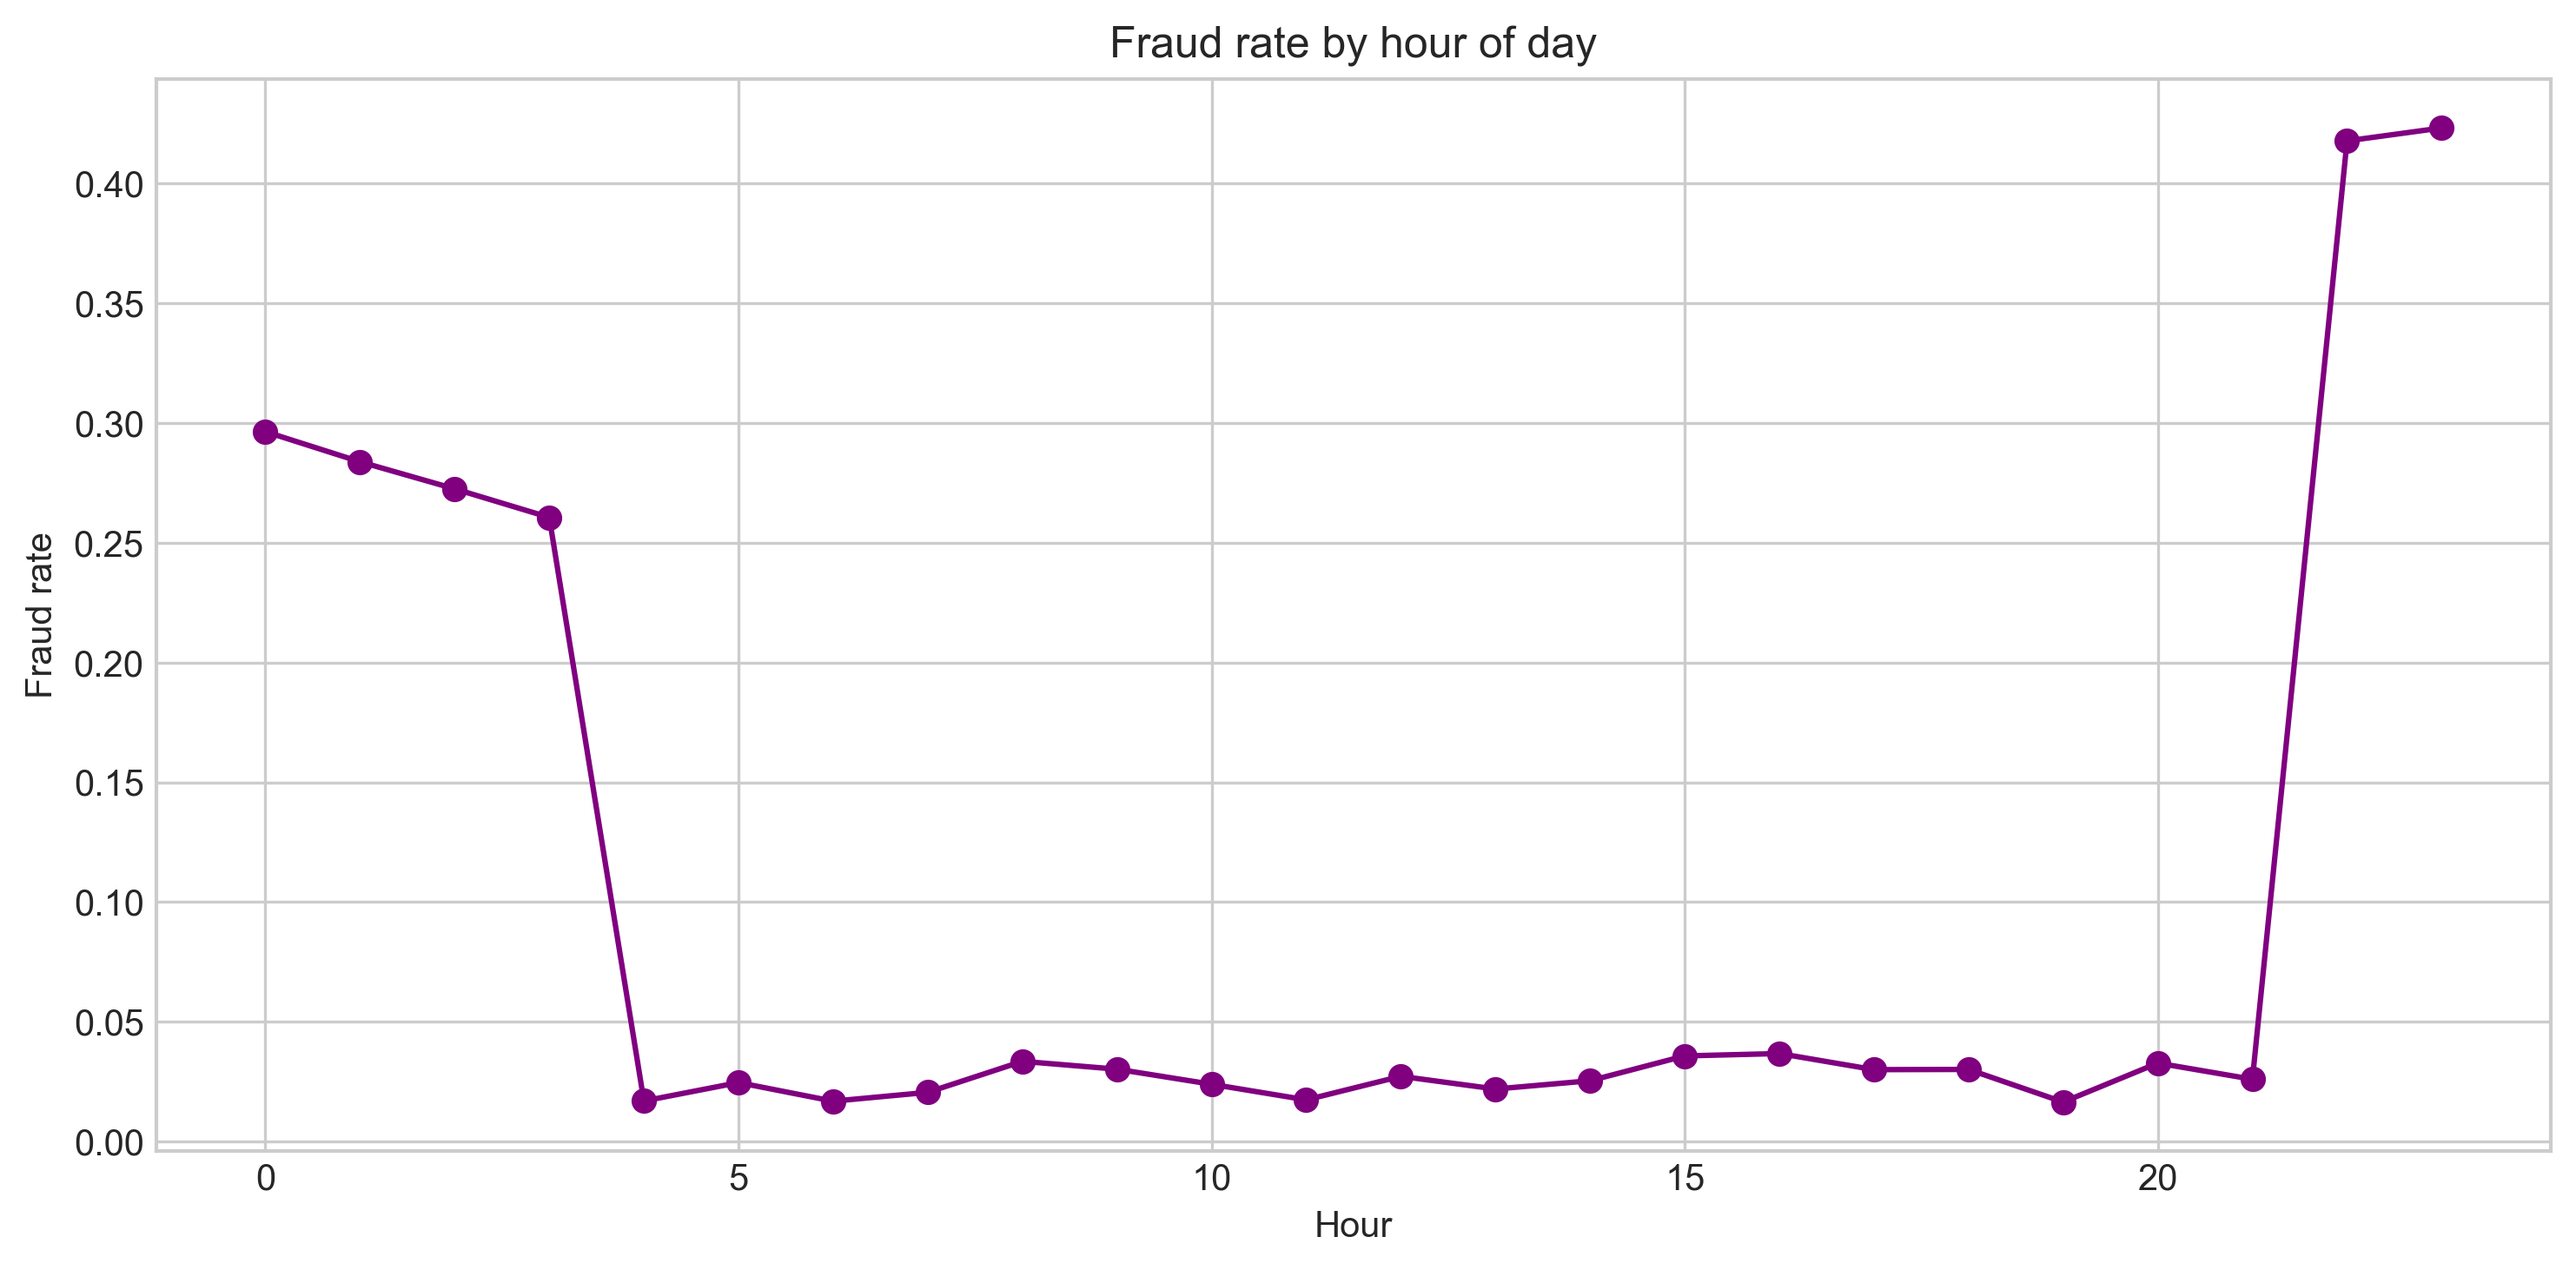
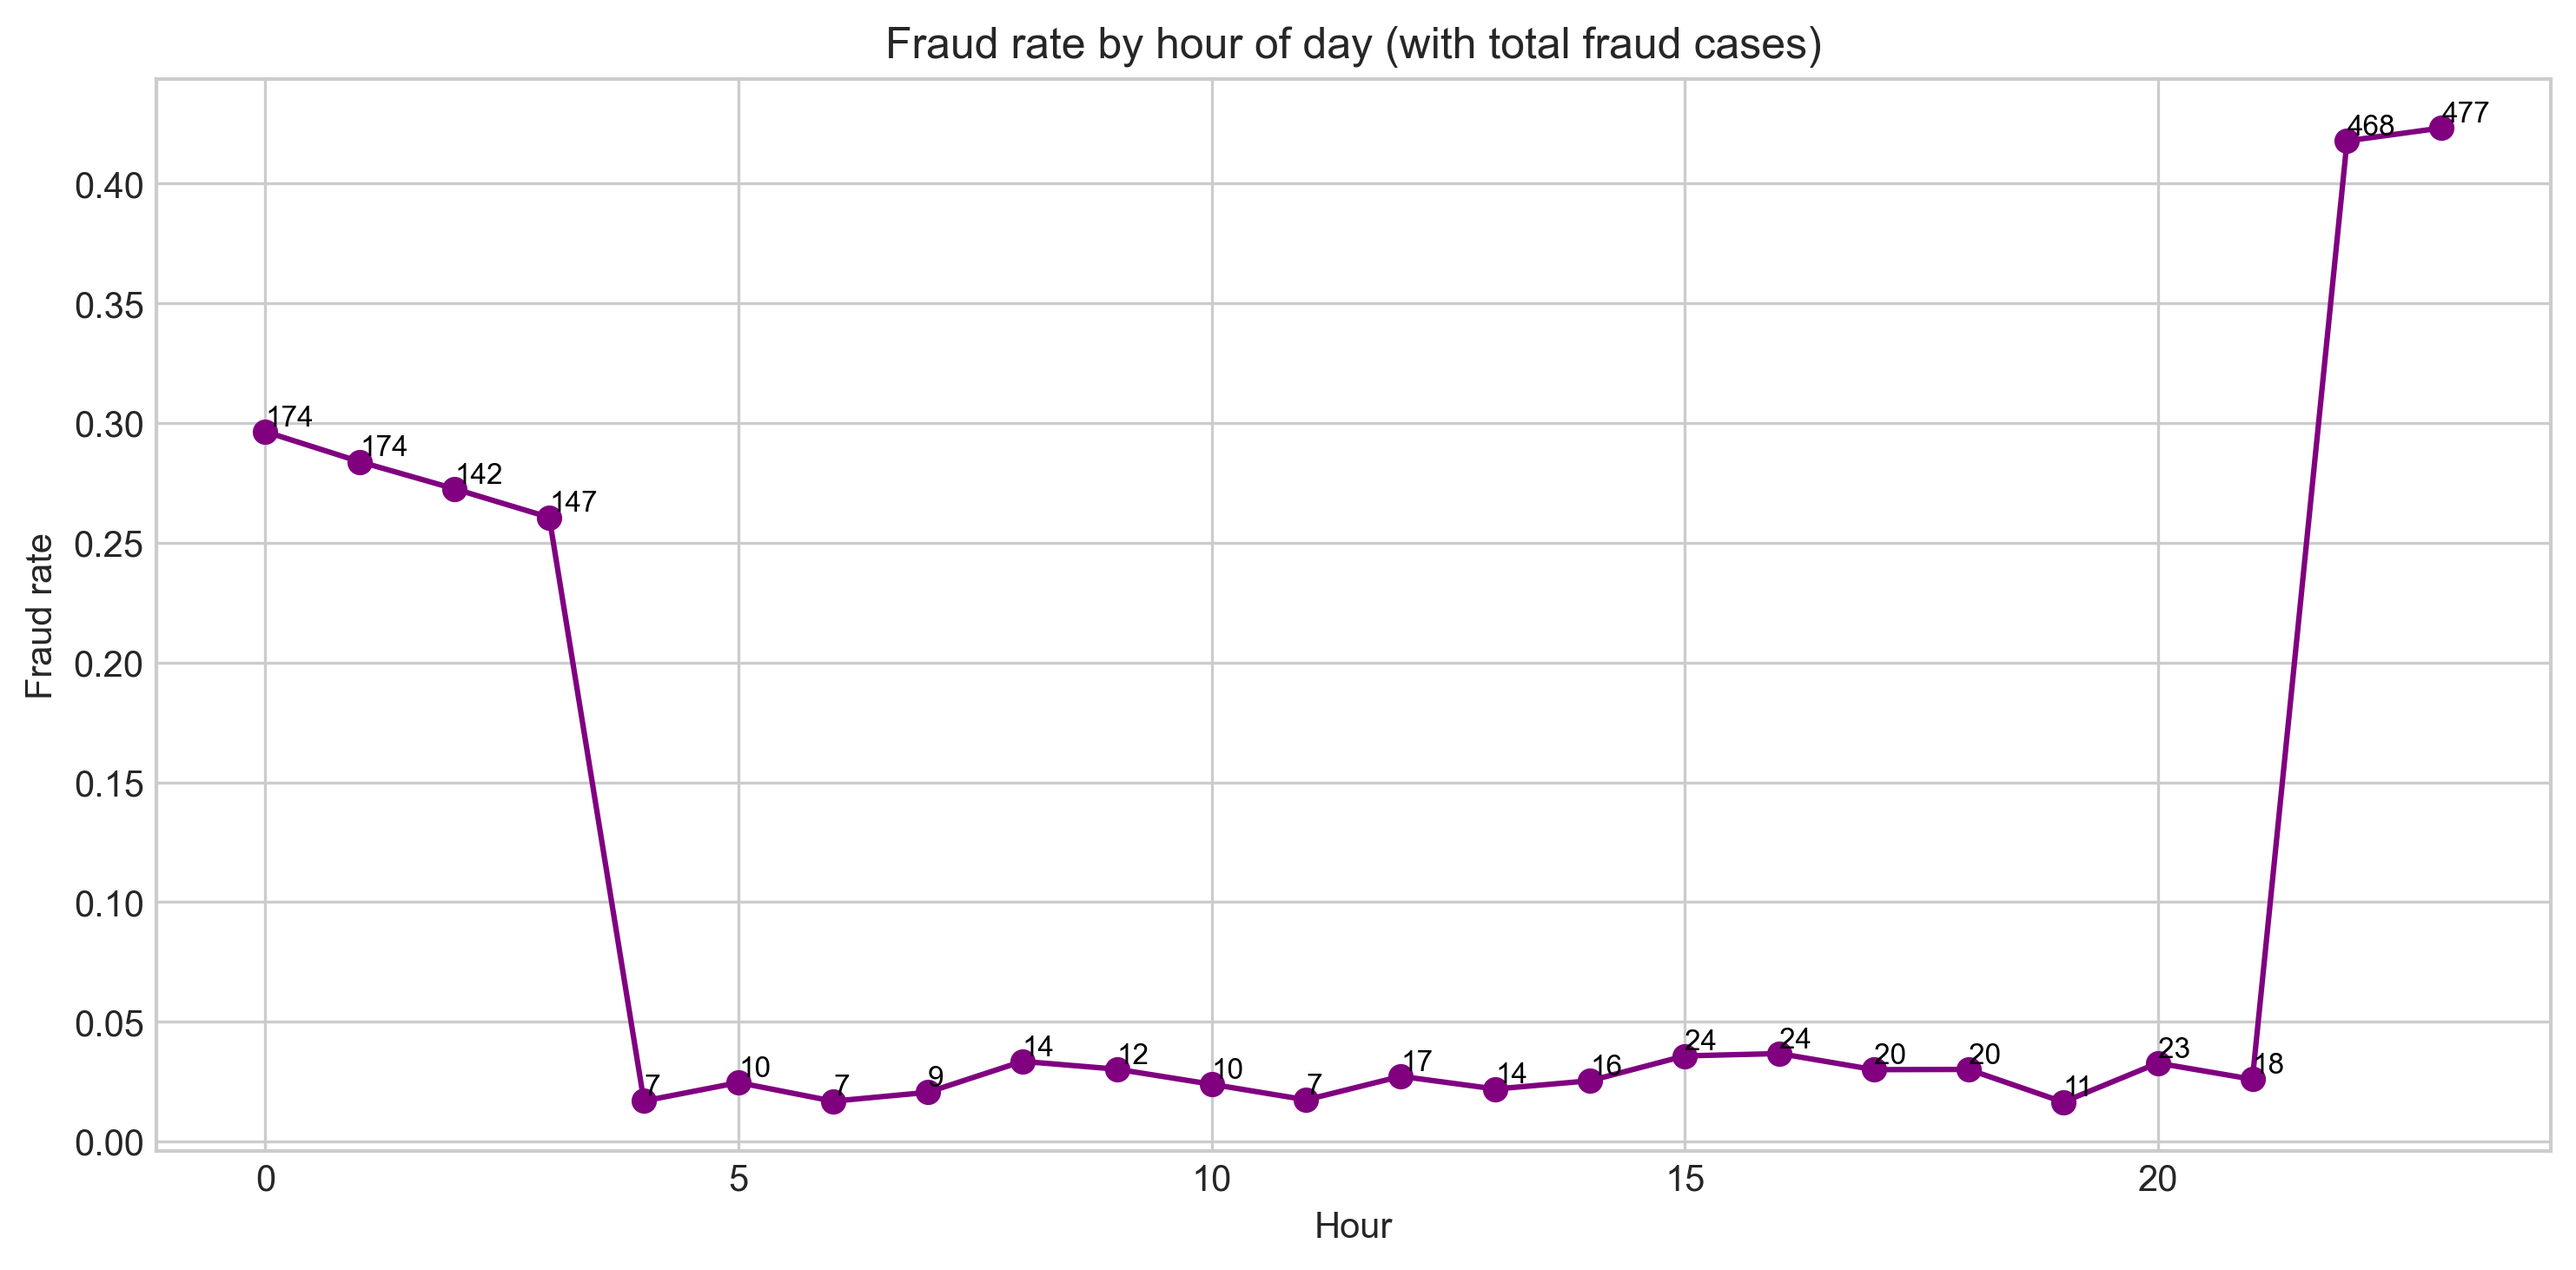
eda update

Changed region(s): [[0.3413, 0.0, 0.7137, 0.0616], [0.8998, 0.0923, 0.9309, 0.1231], [0.0931, 0.3078, 0.1241, 0.3386]]

diff --git a/notebooks/eda.py b/notebooks/eda.py
@@ -9,7 +9,10 @@ if str(PROJECT_ROOT) not in sys.path:
     sys.path.append(str(PROJECT_ROOT))
 
 # Load the local raw dataset from the project data folder.
-from src.data_loader import load_raw_data
+try:
+    from src.data_loader import load_raw_data
+except ModuleNotFoundError:
+    from fraud_detection_mlops_project.src.data_loader import load_raw_data
 
 # Optional plotting support for EDA visuals.
 try:
@@ -121,20 +124,19 @@ def temporal_summary(df: pd.DataFrame) -> None:
         df["is_fraud_clean"] = pd.NA
 
     print("\nTemporal fraud analysis")
-    # Show the average fraud rate by hour, weekday, and month.
+    # Show the total number of fraud cases by hour, weekday, and month.
     print("Fraud by hour")
     print(
         df.groupby("hour")["is_fraud_clean"]
-        .mean()
+        .sum()
         .sort_values(ascending=False)
-        .round(4)
         .to_string()
     )
 
     print("\nFraud by weekday")
     print(
         df.groupby("weekday")["is_fraud_clean"]
-        .mean()
+        .sum()
         .reindex(
             [
                 "Monday",
@@ -146,12 +148,11 @@ def temporal_summary(df: pd.DataFrame) -> None:
                 "Sunday",
             ]
         )
-        .round(4)
         .to_string()
     )
 
     print("\nFraud by month")
-    print(df.groupby("month")["is_fraud_clean"].mean().round(4).to_string())
+    print(df.groupby("month")["is_fraud_clean"].sum().to_string())
 
     print("\nTransaction volume over time (daily)")
     daily_volume = df.groupby(df[time_col].dt.date).size()
@@ -208,34 +209,58 @@ def create_visuals(df: pd.DataFrame) -> None:
 
     plt.style.use("seaborn-v0_8-whitegrid")
 
-    # Plot fraud rate by transaction category.
+    # Plot fraud rate by transaction category and annotate the total fraud cases.
     category_rate = (
         df.groupby("category")["is_fraud_clean"]
         .mean()
         .sort_values(ascending=False)
         .head(10)
     )
+    category_total = (
+        df.groupby("category")["is_fraud_clean"].sum().reindex(category_rate.index)
+    )
     fig, ax = plt.subplots(figsize=(10, 5))
-    category_rate.plot(kind="bar", ax=ax, color="tomato")
-    ax.set_title("Top 10 categories by fraud rate")
+    bars = category_rate.plot(kind="bar", ax=ax, color="tomato")
+    ax.set_title("Top 10 categories by fraud rate (with total fraud cases)")
     ax.set_ylabel("Fraud rate")
     ax.set_xlabel("Category")
+    for bar, total in zip(bars.patches, category_total.values):
+        ax.text(
+            bar.get_x() + bar.get_width() / 2,
+            bar.get_height(),
+            f"{int(total)}",
+            ha="center",
+            va="bottom",
+            fontsize=8,
+            color="black",
+        )
     fig.tight_layout()
     fig.savefig(plots_dir / "fraud_rate_by_category.png", dpi=300, bbox_inches="tight")
     plt.close(fig)
 
-    # Plot fraud rate by state.
+    # Plot fraud rate by state and annotate the total fraud cases.
     state_rate = (
         df.groupby("state")["is_fraud_clean"]
         .mean()
         .sort_values(ascending=False)
         .head(10)
     )
+    state_total = df.groupby("state")["is_fraud_clean"].sum().reindex(state_rate.index)
     fig, ax = plt.subplots(figsize=(10, 5))
-    state_rate.plot(kind="bar", ax=ax, color="steelblue")
-    ax.set_title("Top 10 states by fraud rate")
+    bars = state_rate.plot(kind="bar", ax=ax, color="steelblue")
+    ax.set_title("Top 10 states by fraud rate (with total fraud cases)")
     ax.set_ylabel("Fraud rate")
     ax.set_xlabel("State")
+    for bar, total in zip(bars.patches, state_total.values):
+        ax.text(
+            bar.get_x() + bar.get_width() / 2,
+            bar.get_height(),
+            f"{int(total)}",
+            ha="center",
+            va="bottom",
+            fontsize=8,
+            color="black",
+        )
     fig.tight_layout()
     fig.savefig(plots_dir / "fraud_rate_by_state.png", dpi=300, bbox_inches="tight")
     plt.close(fig)
@@ -269,14 +294,25 @@ def create_visuals(df: pd.DataFrame) -> None:
     )
     plt.close(fig)
 
-    # Visualize fraud rate by hour of day.
+    # Visualize fraud rate by hour of day and annotate the total fraud cases.
     if "hour" in df.columns:
         hourly_rate = df.groupby("hour")["is_fraud_clean"].mean()
+        hourly_counts = df.groupby("hour")["is_fraud_clean"].sum()
         fig, ax = plt.subplots(figsize=(10, 5))
         hourly_rate.plot(kind="line", marker="o", ax=ax, color="purple")
-        ax.set_title("Fraud rate by hour of day")
+        ax.set_title("Fraud rate by hour of day (with total fraud cases)")
         ax.set_ylabel("Fraud rate")
         ax.set_xlabel("Hour")
+        for x, y in zip(hourly_rate.index, hourly_rate.values):
+            ax.text(
+                x,
+                y,
+                f"{int(hourly_counts.loc[x])}",
+                ha="left",
+                va="bottom",
+                fontsize=8,
+                color="black",
+            )
         fig.tight_layout()
         fig.savefig(plots_dir / "fraud_rate_by_hour.png", dpi=300, bbox_inches="tight")
         plt.close(fig)
